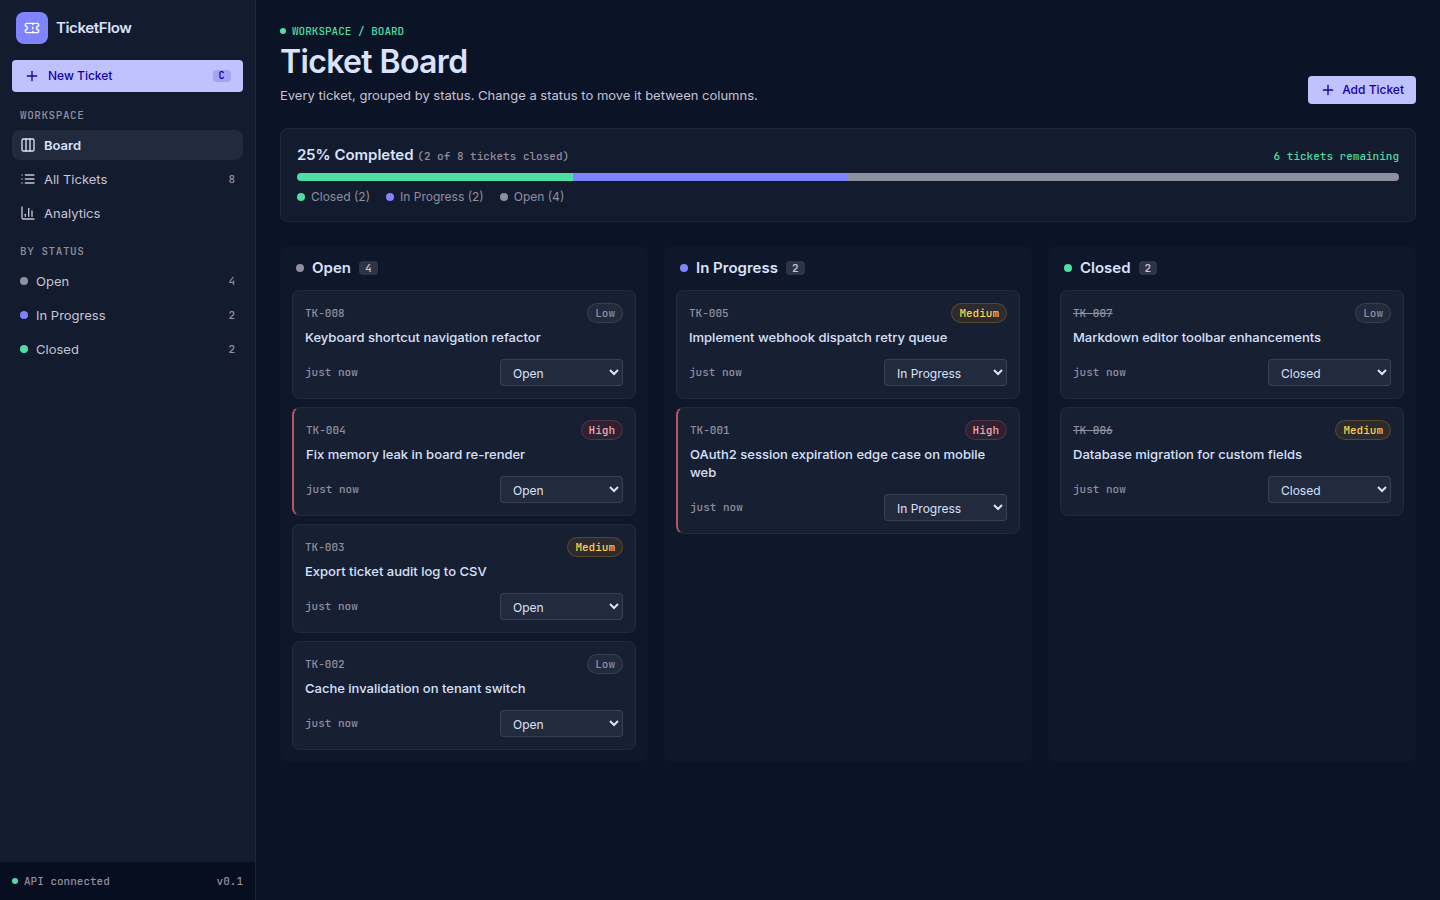
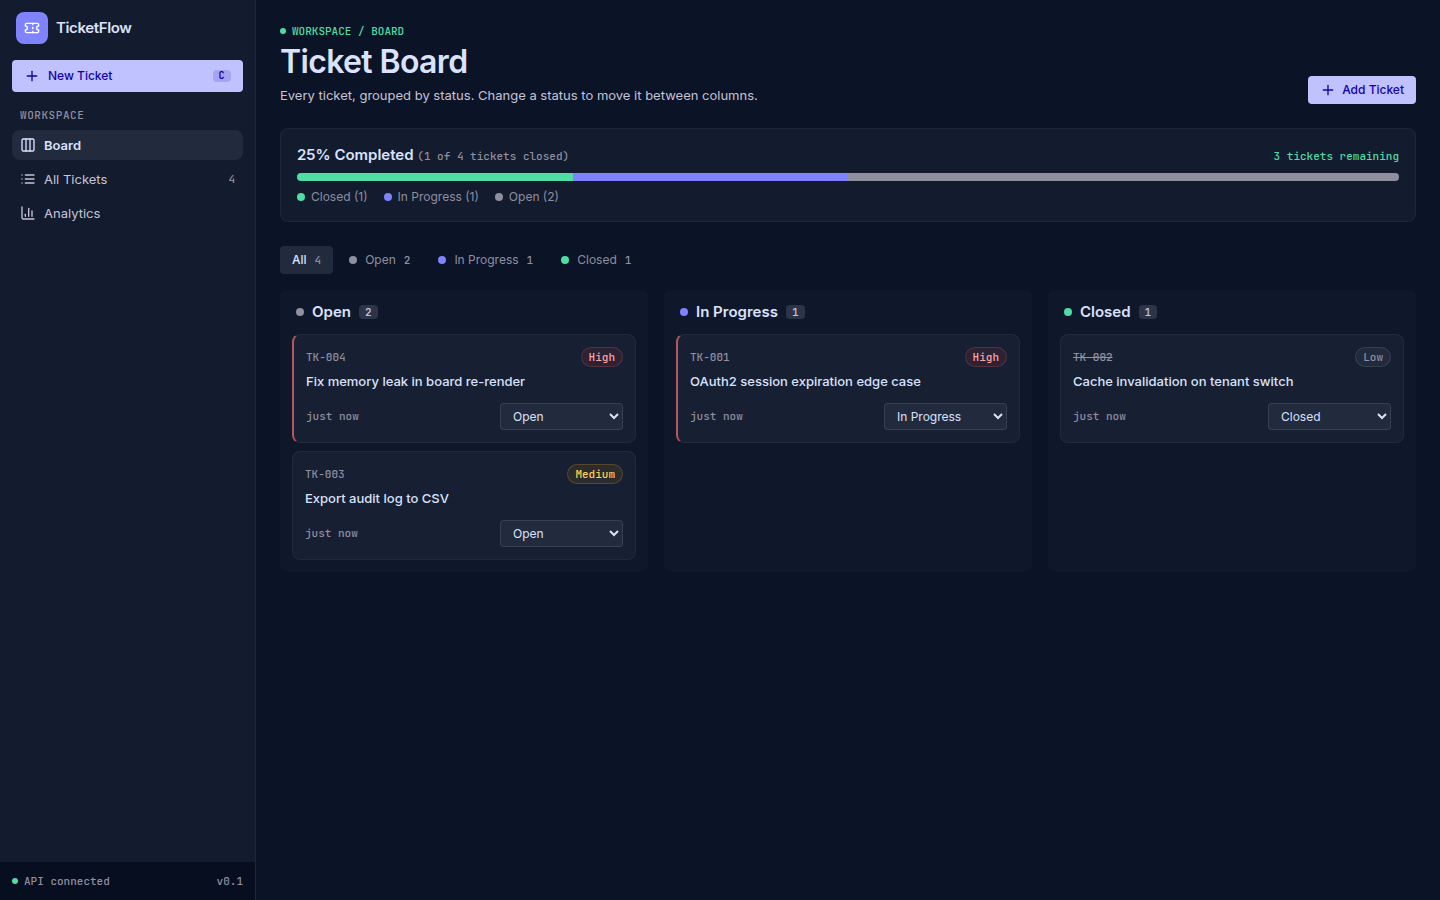
docs: update README and screenshots for board filter and open-by-default tickets

diff --git a/README.md b/README.md
@@ -162,7 +162,7 @@ curl -X POST localhost:3000/tickets -H 'Content-Type: application/json' \
 }
 ```
 
-`status` and `priority` are optional on create.
+`description` and `priority` are optional. Every new ticket starts as `open`. Sending a `status` returns 400; change the status afterwards with `PATCH`.
 
 **List**: `GET /tickets?status=open&page=1&limit=20`
 
@@ -207,13 +207,13 @@ Every error uses NestJS's standard shape:
 
 The screens follow the provided mockups and their "Kinetic Engine" design system: the same colour tokens, Inter and JetBrains Mono, and the pill-style badges. Each screen is cut down to the fields in the data model. The mockups also show assignees, sprints, PRs and velocity charts. Those features have no backing data, so I left them out rather than fake them.
 
-| Screen                       | What you can do                                                                                                                                                                                                  | Requirement covered                      |
-| ---------------------------- | ---------------------------------------------------------------------------------------------------------------------------------------------------------------------------------------------------------------- | ---------------------------------------- |
-| **Board** (`/`)              | One column per status, each loaded page by page with **Load more**. A progress bar shows the share of tickets closed. Change a card's status from its dropdown to move it to another column.                     | List with status/priority, change status |
-| **All Tickets** (`/tickets`) | A table with status filter tabs (showing counts) and Previous/Next pagination. You can change status and priority inline. The filter and page are kept in the URL, so views can be linked and survive a refresh. | List, filter, pagination, change status  |
-| **Create Ticket** (dialog)   | Opens from **New Ticket**, **Add Ticket**, or by pressing **C**. Title (with a 0/120 counter), description, priority and status. Validation messages appear only after you interact with a field.                | Create form                              |
-| **Ticket detail** (drawer)   | Click any ticket to see its full details and edit its status and priority.                                                                                                                                       | Change status                            |
-| **Analytics** (`/analytics`) | Count cards and a donut chart of the status breakdown, from `GET /tickets/stats`.                                                                                                                                | Uses the stats endpoint                  |
+| Screen                       | What you can do                                                                                                                                                                                                                                                                                                                                                     | Requirement covered                              |
+| ---------------------------- | ------------------------------------------------------------------------------------------------------------------------------------------------------------------------------------------------------------------------------------------------------------------------------------------------------------------------------------------------------------------- | ------------------------------------------------ |
+| **Board** (`/`)              | One column per status, each loaded page by page with **Load more**. A progress bar shows the share of tickets closed. **All / Open / In Progress / Closed** filter buttons (with counts) narrow the board to one status, shown as a single full-width column. The filter is kept in the URL. Change a card's status from its dropdown to move it to another column. | List with status/priority, filter, change status |
+| **All Tickets** (`/tickets`) | A table with the same status filter buttons as the board and Previous/Next pagination. You can change status and priority inline. The filter and page are kept in the URL, so views can be linked and survive a refresh.                                                                                                                                            | List, filter, pagination, change status          |
+| **Create Ticket** (dialog)   | Opens from **New Ticket**, **Add Ticket**, or by pressing **C**. Title (with a 0/120 counter), description and priority. There is no status field: new tickets always start as Open. Validation messages appear only after you interact with a field.                                                                                                               | Create form                                      |
+| **Ticket detail** (drawer)   | Click any ticket to see its full details and edit its status and priority.                                                                                                                                                                                                                                                                                          | Change status                                    |
+| **Analytics** (`/analytics`) | Count cards and a donut chart of the status breakdown, from `GET /tickets/stats`.                                                                                                                                                                                                                                                                                   | Uses the stats endpoint                          |
 
 <details>
 <summary>More screenshots</summary>
@@ -247,7 +247,7 @@ pnpm test
 
 The integration tests in [apps/api/test/](apps/api/test/) start the full Nest application, with the same `ValidationPipe` setup as `main.ts`. They send real HTTP requests with Supertest to a real PostgreSQL database, `tickets_test`, which is kept separate from development data. The `tickets` table is truncated before each test. There are **23 test cases**, covering:
 
-- **POST /tickets**: defaults applied, title trimmed, explicit status and priority, and six invalid payloads that must return 400
+- **POST /tickets**: defaults applied, title trimmed, an explicit priority with the status still `open`, and six invalid payloads (including any attempt to set a status) that must return 400
 - **GET /tickets**: status filter combined with pagination and newest-first order, the unfiltered list, and invalid query parameters
 - **PATCH /tickets/:id**: a successful update, 404 for a missing ticket, an empty body, an immutable field, an invalid enum value, and a non-numeric id
 - **GET /tickets/stats**: zero counts for an empty table, and counts after creates and updates
@@ -261,7 +261,7 @@ I also tested the UI by hand in Chrome: creating a ticket, validation, inline st
 
 **NestJS is a Node.js framework.** The brief lists Node.js/Express, and NestJS runs on Express. I chose it for its structure: modules, DTO validation and dependency injection. I used NestJS 11 rather than the new 12 release because 12 is ESM-only, which complicates the Jest setup for no benefit at this size. **The monorepo** lets the API and UI share the ticket enums and payload types through `@mtt/shared`, so the client and server can't fall out of step. **The database schema** is defined in a hand-written migration, not TypeORM's `synchronize`. Status and priority are Postgres enums, so invalid values are rejected by the database as well as by the API. Migrations run automatically when the API starts, so setup is one command. In production I would run them as a separate deploy step. **I used offset pagination** (`page`/`limit`) because the brief asked for it. It is simple, but it gets slower on deep pages and can skip or repeat rows while data changes. At scale I would switch to cursor pagination on `(created_at, id)`. **After any change, the UI re-fetches all ticket queries** instead of updating the cache optimistically. That costs a few cheap extra requests but makes stale counts impossible, and status changes still feel instant at this data size. **I kept the mockups' look but not their extra features.** Assignees, sprints, PRs and velocity charts need data the model doesn't have, so I didn't build fake versions of them.
 
-**Assumptions:** `PATCH` may change only `status` and `priority`. Any other field returns 400 instead of being silently ignored. Status changes are unrestricted (for example, closed → open is allowed). Create may set an initial status and priority. Titles are trimmed and limited to 120 characters.
+**Assumptions:** `PATCH` may change only `status` and `priority`. Any other field returns 400 instead of being silently ignored. Status changes are unrestricted (for example, closed → open is allowed). New tickets always start as `open` (enforced by the API, not just the form); create may set the priority. Titles are trimmed and limited to 120 characters.
 
 **With more time I would add:**
 
